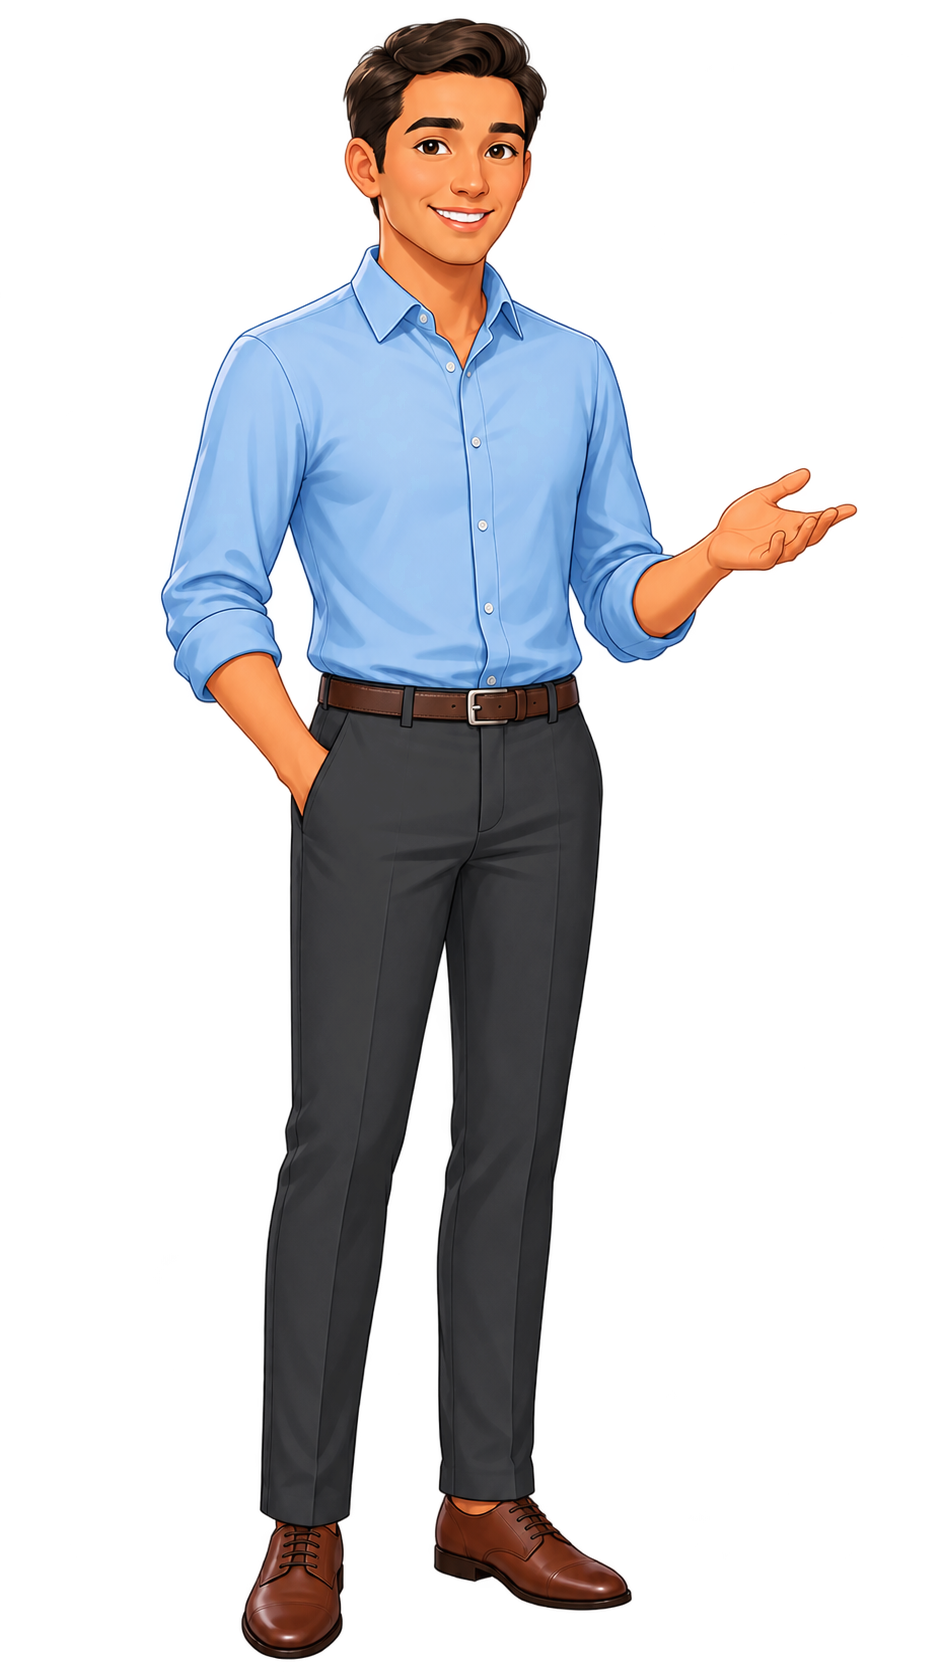
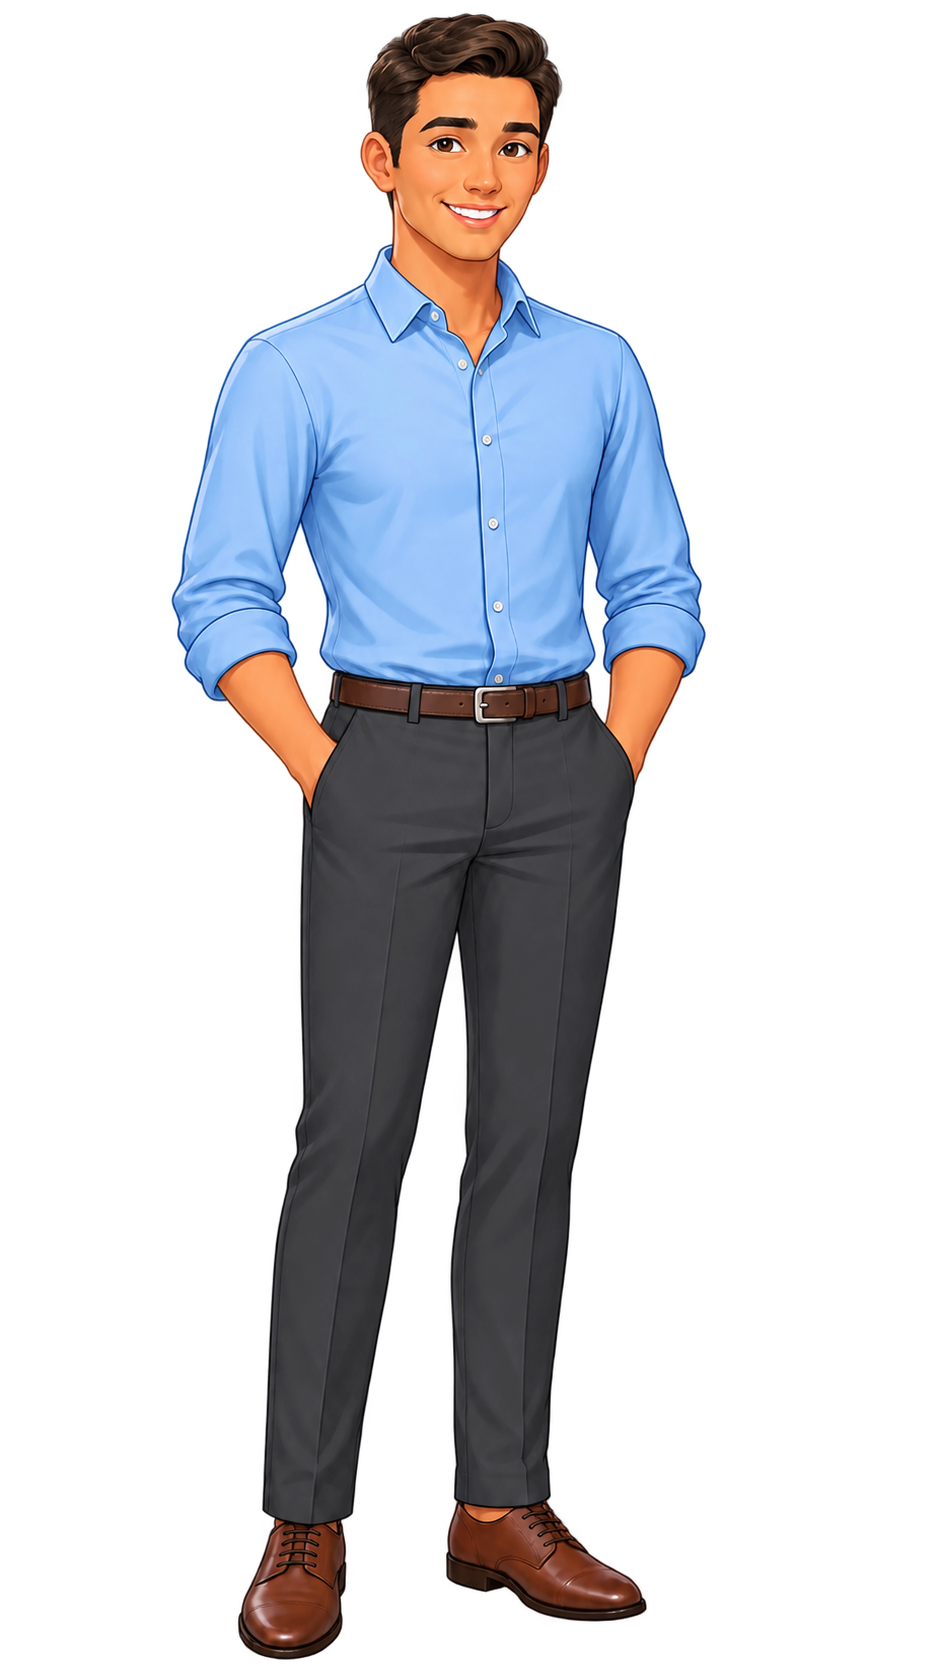
add  animation  for chacracters

Changed region(s): [[0.1541, 0.0, 0.9245, 0.9952], [0.3698, 0.6842, 0.4315, 0.9019]]

diff --git a/client/app/_components/ListeningTask.jsx b/client/app/_components/ListeningTask.jsx
@@ -3,6 +3,7 @@
 import { useRef, useState } from "react";
 import Link from "next/link";
 import Image from "next/image";
+import { Languages } from "lucide-react";
 
 import {
 	Play,
@@ -22,8 +23,12 @@ export default function ListeningTask({
 }) {
 	const [currentLine, setCurrentLine] = useState(0);
 	const [isPlaying, setIsPlaying] = useState(false);
+	const [showTranslation, setShowTranslation] = useState(false);
+	const [translation, setTranslation] = useState("");
 	const [isTranscriptOpen, setIsTranscriptOpen] = useState(false);
 	const [hasWatched, setHasWatched] = useState(false);
+	const [hasStarted, setHasStarted] = useState(false);
+	const [dialogueFinished, setDialogueFinished] = useState(false);
 
 	const audioRef = useRef(null);
 
@@ -55,24 +60,31 @@ export default function ListeningTask({
 
 		if (!audio) return;
 
+		if (!hasStarted) {
+			setHasStarted(true);
+			setDialogueFinished(false);
+		}
+
+		// Currently playing → pause
 		if (isPlaying) {
 			audio.pause();
 			return;
 		}
 
-		// First time playing
+		// First time / dialogue finished
 		if (!audio.src) {
+			setDialogueFinished(false);
 			playCurrentLine(currentLine);
 			return;
 		}
 
-		// Audio finished → restart current line
+		// Current line finished
 		if (audio.ended) {
+			setDialogueFinished(false);
 			playCurrentLine(currentLine);
 			return;
 		}
 
-		// Resume paused audio
 		audio.play().catch((error) => {
 			console.error("Audio resume failed:", error);
 		});
@@ -83,7 +95,8 @@ export default function ListeningTask({
 		if (!audioRef.current) return;
 
 		audioRef.current.pause();
-
+		setDialogueFinished(false);
+		setHasStarted(true);
 		setCurrentLine(0);
 
 		playCurrentLine(0);
@@ -93,18 +106,34 @@ export default function ListeningTask({
 	function handleEnded() {
 		const nextIndex = currentLine + 1;
 
+		// Continue to next dialogue line
 		if (nextIndex < task.dialogue.length) {
 			playCurrentLine(nextIndex);
-		} else {
-			setIsPlaying(false);
-			setCurrentLine(0);
+			return;
+		}
 
-			if (audioRef.current) {
-				audioRef.current.removeAttribute("src");
-				audioRef.current.load();
-			}
+		// Whole dialogue finished
+		setIsPlaying(false);
+		setHasStarted(false);
+		setDialogueFinished(true);
+		setCurrentLine(0);
+
+		if (audioRef.current) {
+			audioRef.current.removeAttribute("src");
+			audioRef.current.load();
 		}
 	}
+
+	const handleTranslate = async () => {
+		if (showTranslation) {
+			setShowTranslation(false);
+			return;
+		}
+
+		// later call your translation API here
+		setTranslation("Đừng lo. Mọi người ở đây rất thân thiện.");
+		setShowTranslation(true);
+	};
 
 	return (
 		<div className="min-h-screen px-4 py-8 text-white sm:px-8">
@@ -141,57 +170,90 @@ export default function ListeningTask({
 						<div className="absolute inset-0 bg-black/5" />
 
 						{/* Maria */}
+
 						<Image
 							src={task.characters.Maria}
 							alt="Maria"
 							width={400}
 							height={520}
-							className={`absolute bottom-0 left-[10%] w-auto object-contain transition-all duration-500 sm:left-[16%] ${
-								activeLine?.speaker === "Maria"
-									? "h-[350px] scale-105 opacity-100 sm:h-[420px]"
-									: "h-[330px] scale-100 opacity-45 brightness-75 sm:h-[395px]"
-							}`}
-						/>
+							className={`absolute bottom-0 left-[10%] w-auto object-contain
+    transition-all duration-700 ease-out sm:left-[16%]
 
+    ${
+			hasStarted && !dialogueFinished
+				? "translate-x-0 opacity-100"
+				: "-translate-x-24 opacity-0"
+		}
+
+    ${
+			activeLine?.speaker === "Maria"
+				? "h-[350px] scale-105 sm:h-[420px]"
+				: "h-[330px] scale-100 brightness-75 sm:h-[395px]"
+		}
+  `}
+						/>
 						{/* Tom */}
 						<Image
 							src={task.characters.Tom}
 							alt="Tom"
 							width={400}
 							height={520}
-							className={`absolute bottom-0 right-[10%] w-auto object-contain transition-all duration-500 sm:right-[16%] ${
-								activeLine?.speaker === "Tom"
-									? "h-[350px] scale-105 opacity-100 sm:h-[420px]"
-									: "h-[330px] scale-100 opacity-45 brightness-75 sm:h-[395px]"
-							}`}
+							className={`absolute bottom-0 right-[10%] w-auto object-contain
+    transition-all duration-700 ease-out sm:right-[16%]
+
+    ${
+			hasStarted && !dialogueFinished
+				? "translate-x-0 opacity-100"
+				: "translate-x-24 opacity-0"
+		}
+
+    ${
+			activeLine?.speaker === "Tom"
+				? "h-[350px] scale-105 sm:h-[420px]"
+				: "h-[330px] scale-100 brightness-75 sm:h-[395px]"
+		}
+  `}
 						/>
 
 						{/* Subtitle + controls */}
 						<div className="absolute inset-x-0 bottom-0 z-20 bg-black/70 backdrop-blur-[2px]">
-							{/* Subtitle */}
-							<div
-								className={`px-5 pb-3 pt-4 sm:px-6 ${
-									activeLine?.speaker === "Tom" ? "text-right" : "text-left"
-								}`}
-							>
-								<p
-									className={`text-sm font-bold ${
-										activeLine?.speaker === "Maria"
-											? "text-violet-400"
-											: "text-emerald-400"
+							{/* Subtitle - only visible while playing */}
+							{hasStarted && (
+								<div
+									className={`px-5 pb-3 pt-4 sm:px-6 ${
+										activeLine?.speaker === "Tom" ? "text-right" : "text-left"
 									}`}
 								>
-									{activeLine?.speaker}
-								</p>
+									{/* Speaker */}
+									<p
+										className={`text-sm font-bold ${
+											activeLine?.speaker === "Maria"
+												? "text-violet-400"
+												: "text-emerald-400"
+										}`}
+									>
+										{activeLine?.speaker}
+									</p>
 
-								<p
-									className={`mt-1 text-base font-medium leading-relaxed text-white sm:text-lg ${
-										activeLine?.speaker === "Tom" ? "ml-auto" : "mr-auto"
-									} max-w-2xl`}
-								>
-									{activeLine?.text}
-								</p>
-							</div>
+									{/* Sentence + translate */}
+									<div
+										className={`mt-1 flex items-start gap-2 ${
+											activeLine?.speaker === "Tom"
+												? "justify-end"
+												: "justify-start"
+										}`}
+									>
+										<p className="max-w-2xl text-base font-medium leading-relaxed text-white sm:text-lg">
+											{activeLine?.text}
+										</p>
+									</div>
+
+									{/* Translation */}
+									{showTranslation && (
+										<p className="mt-2 text-sm text-slate-300">{translation}</p>
+									)}
+								</div>
+							)}
 
 							{/* Controls */}
 							<div className="flex items-center justify-between border-t border-white/10 bg-[#050812]/90 px-4 py-2 sm:px-5">
@@ -201,7 +263,7 @@ export default function ListeningTask({
 										type="button"
 										onClick={handlePlayPause}
 										aria-label={isPlaying ? "Tạm dừng" : "Phát"}
-										className="relative z-30 flex h-10 w-10 items-center justify-center rounded-full border border-slate-700 bg-[#111827] text-slate-100 shadow-md transition hover:border-violet-500/50 hover:bg-[#1a2235] hover:text-violet-300 active:scale-95"
+										className="relative z-30 flex h-12 w-12 items-center justify-center rounded-full border border-slate-700 bg-[#111827] text-slate-100 shadow-md transition hover:border-violet-500/50 hover:bg-[#1a2235] hover:text-violet-300 active:scale-95 cursor-pointer "
 									>
 										{isPlaying ? (
 											<Pause size={18} fill="currentColor" />
@@ -215,9 +277,23 @@ export default function ListeningTask({
 										type="button"
 										onClick={handleRestart}
 										title="Phát lại từ đầu"
-										className="flex h-9 w-9 items-center justify-center rounded-full text-slate-400 transition hover:bg-white/10 hover:text-white"
+										className="flex h-10 w-10 items-center justify-center rounded-full text-slate-400 transition hover:bg-white/10 hover:text-white cursor-pointer"
 									>
-										<RotateCcw size={16} />
+										<RotateCcw size={20} />
+									</button>
+
+									<button
+										type="button"
+										onClick={handleTranslate}
+										aria-label="Dịch câu"
+										title="Dịch câu"
+										className={`flex h-9 w-9 items-center justify-center rounded-full transition ${
+											showTranslation
+												? "bg-violet-500/15 text-violet-400"
+												: "text-slate-400 hover:bg-white/10 hover:text-white"
+										}`}
+									>
+										<Languages size={16} />
 									</button>
 								</div>
 
